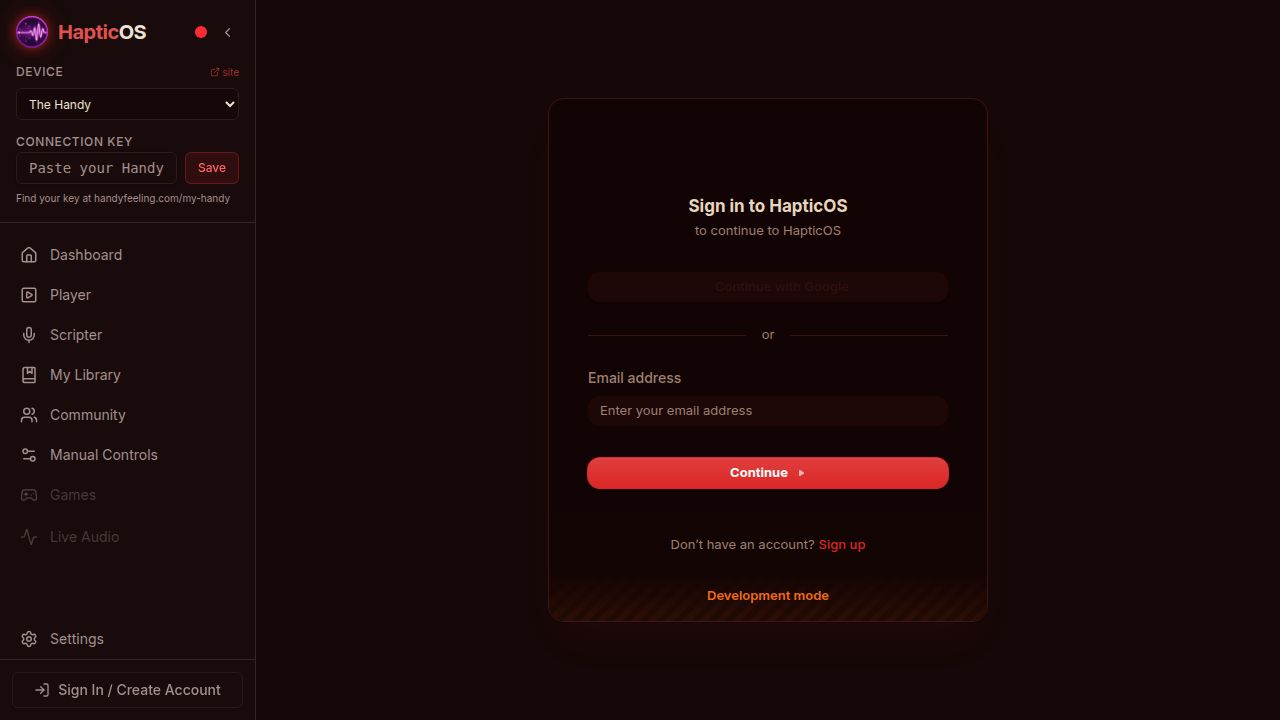
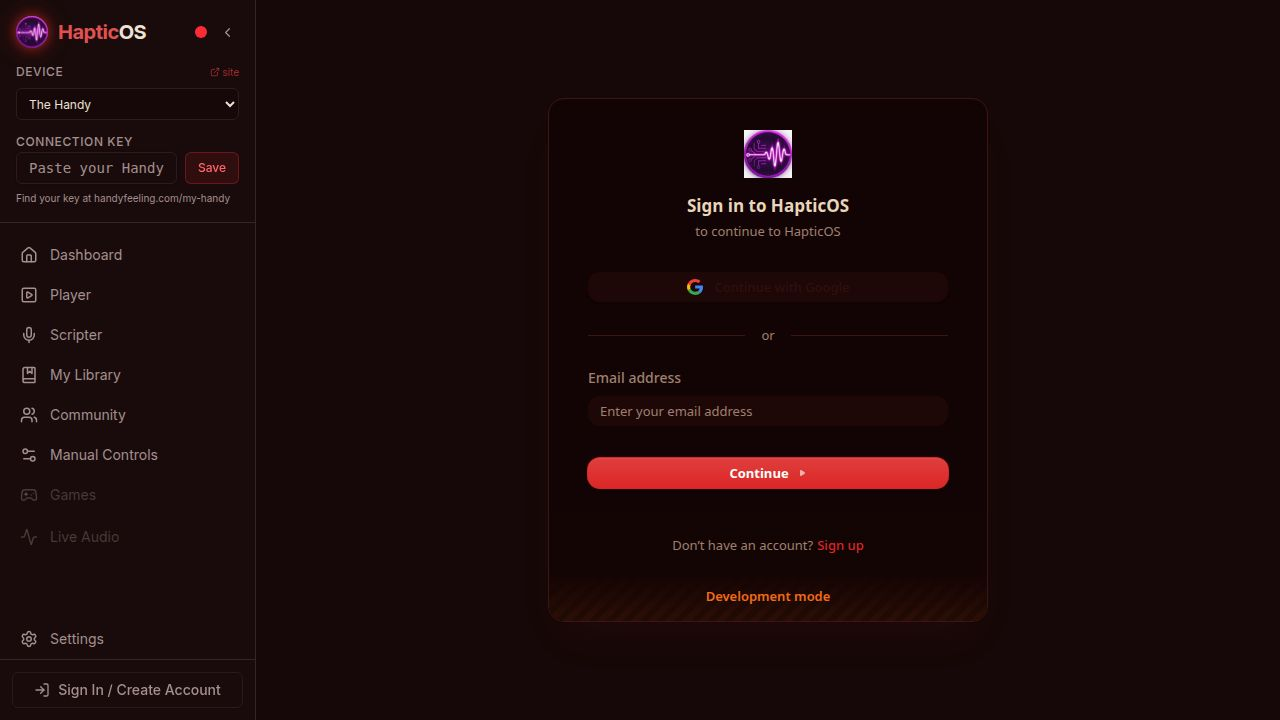
feat: add HLS quality selector to video control bar (task #214)
## What changed

### artifacts/handy-controller/src/lib/hls-video.ts
- Exported `getHls(video)` helper — returns the active hls.js instance from the
  internal WeakMap, or undefined for native HLS / non-HLS sources.

### artifacts/handy-controller/src/components/video-control-bar.tsx
- Imports `Hls`, `Events`, `ManifestParsedData` from hls.js (fully typed, no `any`).
- Adds `hlsLevels` (manifest quality levels) and `selectedLevel` (user intent) state.
  `selectedLevel` tracks only explicit user choices (-1 = Auto, ≥0 = pinned level).
  It is NOT driven by hls.js LEVEL_SWITCHED events so "Auto" stays visibly selected
  while ABR switches quality internally.
- `useEffect` subscribes to MANIFEST_PARSED on mount and re-subscribes on each video
  `loadstart` event (fired after player.tsx calls video.load() + attachHlsSource(),
  so getHls(video) reliably returns the new Hls instance by that point).
- Adds a `<select>` quality picker that renders only when `hlsLevels.length > 1`
  (hidden for single-level streams and non-HLS sources). Options are sorted
  highest-to-lowest and labelled as "720p · 2500k". On change, writes to
  `hls.currentLevel` (-1 re-enables ABR, ≥0 pins a level) and updates selectedLevel.

## All "done looks like" criteria met
- Quality selector appears for multi-level HLS streams ✓
- Users can pick a specific quality or leave it on Auto ✓
- Selected level passed to hls.js via hls.currentLevel ✓
- Control hidden for single-level streams and non-HLS sources ✓
[…]

diff --git a/artifacts/handy-controller/src/components/video-control-bar.tsx b/artifacts/handy-controller/src/components/video-control-bar.tsx
@@ -1,4 +1,5 @@
 import { useState, useEffect, useCallback, useRef, RefObject } from "react";
+import Hls, { Events, type ManifestParsedData } from "hls.js";
 import { Button } from "@/components/ui/button";
 import { Input } from "@/components/ui/input";
 import {
@@ -8,6 +9,7 @@ import {
   StepBack, StepForward,
   Maximize2, Minimize2,
 } from "lucide-react";
+import { getHls } from "@/lib/hls-video";
 
 const FRAME_S = 1 / 30;
 
@@ -45,6 +47,14 @@ export function VideoControlBar({
   const [scrubbing, setScrubbing] = useState(false);
   const [hovering, setHovering] = useState(false);
 
+  // HLS quality selector.
+  // `hlsLevels`    — quality levels reported by the manifest (empty = no HLS or single-level)
+  // `selectedLevel` — user's explicit choice: -1 = Auto (ABR), ≥0 = pinned level.
+  //                   Deliberately NOT updated by LEVEL_SWITCHED so "Auto" stays selected
+  //                   even while hls.js is internally switching quality via ABR.
+  const [hlsLevels, setHlsLevels] = useState<{ height: number; bitrate: number }[]>([]);
+  const [selectedLevel, setSelectedLevel] = useState<number>(-1);
+
   const rafRef = useRef<number | null>(null);
   const scrubBarRef = useRef<HTMLDivElement>(null);
 
@@ -64,6 +74,76 @@ export function VideoControlBar({
       rafRef.current = null;
     }
   }, []);
+
+  // HLS quality level subscription.
+  //
+  // Timing guarantee for source switches: player.tsx calls video.load() and then
+  // attachHlsSource() synchronously in a single effect. The browser dispatches the
+  // `loadstart` event as a queued task (not a microtask), so by the time our
+  // loadstart handler runs, attachHlsSource has already stored the new Hls instance
+  // in the WeakMap. getHls(video) therefore reliably returns the new instance.
+  useEffect(() => {
+    const video = videoRef.current;
+    if (!video) return;
+
+    let hlsCleanup: (() => void) | null = null;
+
+    const subscribeToHls = () => {
+      hlsCleanup?.();
+      hlsCleanup = null;
+
+      const hls = getHls(video);
+      if (!hls) {
+        setHlsLevels([]);
+        setSelectedLevel(-1);
+        return;
+      }
+
+      const onManifestParsed = (_event: Events.MANIFEST_PARSED, data: ManifestParsedData) => {
+        setHlsLevels(data.levels.map(l => ({ height: l.height, bitrate: l.bitrate })));
+        // Reset to Auto whenever a new manifest loads — do not carry over a pinned
+        // level from a previous stream that may have a different level index set.
+        setSelectedLevel(-1);
+      };
+
+      // Manifest already available (component mounted after MANIFEST_PARSED fired).
+      if (hls.levels.length > 0) {
+        setHlsLevels(hls.levels.map(l => ({ height: l.height, bitrate: l.bitrate })));
+        // Restore user intent: if hls.currentLevel is -1 (auto) keep Auto selected;
+        // otherwise a previous pinned level is in effect — honour it.
+        setSelectedLevel(hls.currentLevel === -1 ? -1 : hls.currentLevel);
+      }
+
+      hls.on(Hls.Events.MANIFEST_PARSED, onManifestParsed);
+
+      hlsCleanup = () => {
+        hls.off(Hls.Events.MANIFEST_PARSED, onManifestParsed);
+      };
+    };
+
+    subscribeToHls();
+
+    const onLoadStart = () => subscribeToHls();
+    video.addEventListener("loadstart", onLoadStart);
+
+    return () => {
+      video.removeEventListener("loadstart", onLoadStart);
+      hlsCleanup?.();
+      setHlsLevels([]);
+      setSelectedLevel(-1);
+    };
+  }, [videoRef]);
+
+  const handleHlsLevelChange = useCallback((value: string) => {
+    const video = videoRef.current;
+    if (!video) return;
+    const hls = getHls(video);
+    if (!hls) return;
+    const level = parseInt(value, 10);
+    // Write to hls.currentLevel: -1 re-enables ABR, ≥0 pins a specific level.
+    hls.currentLevel = level;
+    setSelectedLevel(level);
+  }, [videoRef]);
 
   // Fullscreen sync
   useEffect(() => {
@@ -306,11 +386,32 @@ export function VideoControlBar({
           </div>
         )}
 
+        {/* HLS quality selector — only shown for multi-level HLS streams */}
+        {hlsLevels.length > 1 && (
+          <select
+            value={selectedLevel}
+            onChange={e => handleHlsLevelChange(e.target.value)}
+            className="ml-auto h-7 rounded text-xs bg-background/70 border border-border/50 text-muted-foreground hover:text-foreground px-1.5 cursor-pointer focus:outline-none focus:ring-1 focus:ring-primary/50"
+            title="Video quality"
+          >
+            <option value={-1}>Auto</option>
+            {[...hlsLevels]
+              .map((l, i) => ({ ...l, index: i }))
+              .sort((a, b) => b.height - a.height)
+              .map(({ height, bitrate, index }) => (
+                <option key={index} value={index}>
+                  {height}p
+                  {bitrate > 0 ? ` · ${Math.round(bitrate / 1000)}k` : ""}
+                </option>
+              ))}
+          </select>
+        )}
+
         {/* Fullscreen */}
         <Button
           size="icon"
           variant="ghost"
-          className="h-7 w-7 text-muted-foreground hover:text-foreground ml-auto"
+          className={`h-7 w-7 text-muted-foreground hover:text-foreground ${hlsLevels.length > 1 || extraControls ? "" : "ml-auto"}`}
           onClick={toggleFullscreen}
           title={fullscreen ? "Exit fullscreen" : "Fullscreen"}
         >

diff --git a/artifacts/handy-controller/src/lib/hls-video.ts b/artifacts/handy-controller/src/lib/hls-video.ts
@@ -71,6 +71,14 @@ export function attachHlsSource(
 }
 
 /**
+ * Returns the active hls.js instance bound to `video`, if any.
+ * Returns undefined for native HLS (Safari) or non-HLS sources.
+ */
+export function getHls(video: HTMLVideoElement): Hls | undefined {
+  return hlsInstances.get(video);
+}
+
+/**
  * Returns true if the given URL looks like an HLS manifest.
  */
 export function isHlsUrl(url: string): boolean {